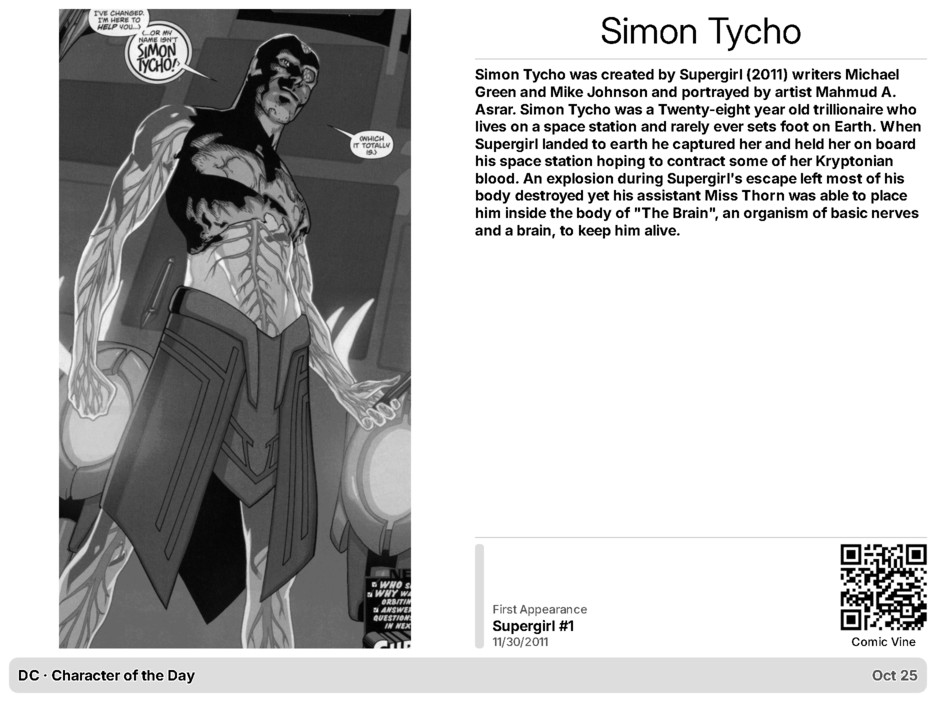
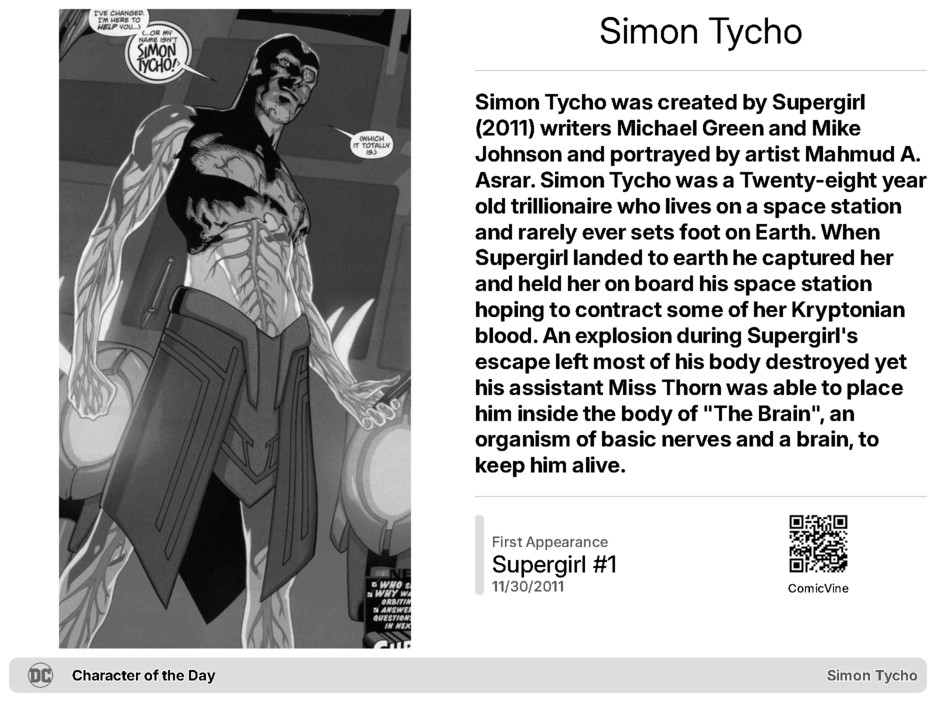
Mirror current Marvel markup with DC branding

diff --git a/templates/trmnlFullLayout.html b/templates/trmnlFullLayout.html
@@ -1,23 +1,41 @@
-<div class="layout layout--stretch gap--medium dc-card">
-{% if dc_has_character %}
-<div class="grid grid--cols-2 portrait:grid--cols-1 gap--medium h--full w--full">
-  <div class="col col--center h--full dc-portrait">{% if ImageURL != blank %}<img class="image image-dither image--contain" alt="{{ Name | escape }}" src="{{ ImageURL | escape }}">{% else %}<span class="label">Portrait unavailable</span>{% endif %}</div>
-  <div class="col col--start gap--small h--full dc-details">
-    <span class="title title--large lg:title--xxlarge text--center w--full" data-clamp="2">{{ Name | escape }}</span>
-    <div class="divider w--full"></div>
-    {% if dc_stale %}<span class="label label--inverted">Last known character · update delayed</span>{% endif %}
-    <div class="dc-body w--full"><span class="description lg:description--large" data-clamp="11" data-clamp-lg="16">{{ Description | default: 'Biography unavailable.' | escape }}</span></div>
-    <div class="divider w--full"></div>
-    <div class="row row--center gap--small w--full"><div class="item w--full"><div class="meta"></div><div class="content">
-<span class="label label--small">First Appearance</span>
-<span class="description lg:description--large w--full" data-clamp="2">{{ FirstComicTitle | default: 'Not available' | escape }}</span>
-{% if FirstAppearance != blank %}<span class="label label--small">{{ FirstAppearance | escape }}</span>{% endif %}
-</div></div><div class="flex flex--col flex--center-x gap--xsmall dc-qr-wrap">{% if CharacterURL != blank %}<img class="image image--contain w--16 h--16 lg:w--24 lg:h--24 dc-qr" alt="Comic Vine character page QR code" src="{{ dc_qr_url | escape }}">{% endif %}<span class="label label--small">Comic Vine</span></div></div>
-  </div>
-</div>
-{% else %}<div class="col col--center gap--small">{{ dc_state }}</div>{% endif %}
-</div>
-<div class="title_bar">
-  <span class="title"><span class="dc-brand">DC</span> · Character of the Day</span>
-  <span class="instance">{% if dc_stale %}Update delayed · {% endif %}{% if UpdatedAt != blank %}{{ UpdatedAt | date: '%b %d' | escape }}{% else %}{{ Name | default: 'Waiting for data' | escape }}{% endif %}</span>
-</div>
+ <div class="layout layout--stretch gap--medium">
+   <div class="grid grid--cols-6 gap--medium h--full">
+     <div class="col col--span-3 h--full">
+       <img class="image image-dither image--contain w--full h--full" alt="{{ Name }}" src="{{ ImageURL }}">
+     </div>
+ 
+     <div class="col col--span-3 flex flex--col gap--large h--full">
+       <span class="title title--xlarge lg:title--xxlarge text--center w--full" data-value-fit="true" data-pixel-perfect="true">
+         {{ Name }}
+       </span>
+ 
+       <span class="divider w--full"></span>
+ 
+       <div class="flex flex--col  flex--grow  ">
+         <span class="description description--large lg:description--xxlarge" data-clamp-md="11" data-clamp-lg="19">{{ Description }}</span>
+       </div>
+
+       <div class="divider w--full"></div>
+       <div class="flex flex--row  gap--large w--full ">
+         <div class="item flex--grow w--full h--full">
+           <div class="meta"></div>
+           <div class="content">
+             <span class="label">First Appearance</span>
+             <span class="value value--xsmall lg:value--small" data-value-fit="true">{{ FirstComicTitle }}</span>
+             <span class="label">{{ FirstAppearance }}</span>
+           </div>
+         </div> 
+         <div class="flex flex--col  w--full flex--grow">
+           <img class="image image--contain w--16 h--16 lg:w--30 lg:h--30" alt="ComicVine" src="https://raw.githubusercontent.com/MarkHopper24/DC-Character-of-the-Day/refs/heads/main/characterQR.jpg">
+           <span class="label label--small ">ComicVine</span>
+         </div>
+       </div>
+     </div>
+   </div>
+ </div>
+ 
+ <div class="title_bar">
+   <img class="image" alt="DC" src="https://logos-world.net/wp-content/uploads/2020/08/DC-Comics-Logo.png">
+   <span class="title">Character of the Day</span>
+   <span class="instance">{{ Name }}</span>
+ </div>

diff --git a/templates/trmnlHalfHorizontal.html b/templates/trmnlHalfHorizontal.html
@@ -1,21 +1,35 @@
-<div class="layout layout--stretch gap--small dc-card">
-{% if dc_has_character %}
-<div class="grid grid--cols-6 gap--small h--full w--full">
-  <div class="col col--center col--span-2 h--full dc-portrait">{% if ImageURL != blank %}<img class="image image-dither image--contain" alt="{{ Name | escape }}" src="{{ ImageURL | escape }}">{% else %}<span class="label">Portrait unavailable</span>{% endif %}</div>
-  <div class="col col--start col--span-4 gap--xsmall h--full dc-details">
-    <span class="title title--medium lg:title--xlarge text--center w--full" data-clamp="1">{{ Name | escape }}</span>
-    <div class="divider w--full"></div>
-    <div class="dc-body w--full"><span class="description" data-clamp="3">{{ Description | escape }}</span></div>
-    <div class="row row--center gap--small w--full"><div class="item w--full"><div class="meta"></div><div class="content">
-<span class="label label--small">First Appearance</span>
-<span class="description lg:description--large w--full" data-clamp="2">{{ FirstComicTitle | default: 'Not available' | escape }}</span>
-{% if FirstAppearance != blank %}<span class="label label--small">{{ FirstAppearance | escape }}</span>{% endif %}
-</div></div>{% if CharacterURL != blank %}<img class="image image--contain w--16 h--16 lg:w--24 lg:h--24 dc-qr" alt="Comic Vine character page QR code" src="{{ dc_qr_url | escape }}">{% endif %}</div>
+<div class="layout layout--stretch gap--small">
+  <div class="grid grid--cols-6 gap--small h--full w--full">
+    <div class="col col--center col--span-2 h--full">
+      <img class="image image-dither image--contain w--full h--full" alt="{{ Name }}" src="{{ ImageURL }}">
+    </div>
+
+    <div class="col col--span-4 flex--col gap--xsmall h--full">
+      <span class="title title--medium lg:title--xxlarge text--center w--full" data-clamp="1">
+        {{ Name }}
+      </span>
+      <div class="divider w--full"></div>
+      <span class="description lg:description " data-clamp="3" data-clamp-lg="3">
+        {{ Description }}
+      </span>
+      <div class="stretch-y"></div>
+            <img class="image image--contain w--16 h--16 md:w--16 md:h--16 lg:w--28 lg:h--28" alt="ComicVine Wiki" src="https://raw.githubusercontent.com/MarkHopper24/DC-Character-of-the-Day/refs/heads/main/characterQR.jpg">
+      <span class="label label--small text--center" data-clamp="2">ComicVine Wiki</span>
+      <div class="item w--full">
+        <div class="meta"></div>
+        <div class="content">
+          <span class="label label--small">First Appearance</span>
+          <span class="value value--xsmall" data-value-fit="true">{{ FirstComicTitle }}</span>
+          <span class="label label--small">{{ FirstAppearance }}</span>
+        </div>
+      </div>
+    </div>
   </div>
 </div>
-{% else %}<div class="col col--center gap--small">{{ dc_state }}</div>{% endif %}
-</div>
+
 <div class="title_bar">
-  <span class="title"><span class="dc-brand">DC</span> · Character of the Day</span>
-  <span class="instance">{% if dc_stale %}Update delayed · {% endif %}{% if UpdatedAt != blank %}{{ UpdatedAt | date: '%b %d' | escape }}{% else %}{{ Name | default: 'Waiting for data' | escape }}{% endif %}</span>
+  <img class="image" alt="DC"
+       src="https://logos-world.net/wp-content/uploads/2020/08/DC-Comics-Logo.png">
+  <span class="title">Character of the Day</span>
+  <span class="instance">{{ Name }}</span>
 </div>

diff --git a/templates/trmnlHalfVertical.html b/templates/trmnlHalfVertical.html
@@ -1,16 +1,33 @@
-<div class="layout layout--col layout--top gap--small dc-card">
-{% if dc_has_character %}
-  <span class="title title--large lg:title--xxlarge text--center w--full" data-clamp="2">{{ Name | escape }}</span>
-  <div class="col col--center w--full dc-portrait">{% if ImageURL != blank %}<img class="image image-dither image--contain" alt="{{ Name | escape }}" src="{{ ImageURL | escape }}">{% else %}<span class="label">Portrait unavailable</span>{% endif %}</div>
-  <span class="description" data-clamp="3" data-clamp-lg="5">{{ Description | escape }}</span>
-  <div class="row row--center gap--small w--full"><div class="item w--full"><div class="meta"></div><div class="content">
-<span class="label label--small">First Appearance</span>
-<span class="description lg:description--large w--full" data-clamp="2">{{ FirstComicTitle | default: 'Not available' | escape }}</span>
-{% if FirstAppearance != blank %}<span class="label label--small">{{ FirstAppearance | escape }}</span>{% endif %}
-</div></div><div class="flex flex--col flex--center-x dc-qr-wrap">{% if CharacterURL != blank %}<img class="image image--contain w--16 h--16 lg:w--24 lg:h--24 dc-qr" alt="Comic Vine character page QR code" src="{{ dc_qr_url | escape }}">{% endif %}</div></div>
-{% else %}<div class="col col--center gap--small">{{ dc_state }}</div>{% endif %}
+<div class="layout layout--col layout--stretch gap--xsmall">
+  <div class="row row--center h--[3cqh] w--full ">
+    <img class="image image-dither image--contain w--full h--full" alt="{{ Name }}" src="{{ ImageURL }}">
+  </div>
+  <div class="flex flex--col gap--large stretch">
+    <span class="title title--medium lg:title--xxlarge text--center w--full" data-clamp="2">
+      {{ Name }}
+    </span>
+    <span class="label lg:label--medium text--" data-clamp="2" data-clamp-lg="4">
+      {{ Description }}
+    </span>
+    <div class="item w--full">
+      <div class="meta"></div>
+      <div class="content">
+        <span class="label label--small">First Appearance</span>
+        <span class="value value--xsmall" data-value-fit="true">{{ FirstComicTitle }}</span>
+        <span class="label label--small">{{ FirstAppearance }}</span>
+      </div>
+    </div>
+    <div class="stretch-y"></div>
+    <div class="flex flex--col flex--center-x gap--xsmall">
+      <img class="image image--contain w--12 h--12 md:w--12 md:h--12 lg:w--24 lg:h--24" alt="ComicVine Wiki" src="https://raw.githubusercontent.com/MarkHopper24/DC-Character-of-the-Day/refs/heads/main/characterQR.jpg">
+      <span class="label label--small" data-clamp="2">ComicVine Wiki</span>
+    </div>
+  </div>
 </div>
+
 <div class="title_bar">
-  <span class="title"><span class="dc-brand">DC</span> · Character of the Day</span>
-  <span class="instance">{% if dc_stale %}Update delayed · {% endif %}{% if UpdatedAt != blank %}{{ UpdatedAt | date: '%b %d' | escape }}{% else %}{{ Name | default: 'Waiting for data' | escape }}{% endif %}</span>
+  <img class="image" alt="DC"
+       src="https://logos-world.net/wp-content/uploads/2020/08/DC-Comics-Logo.png">
+  <span class="title">Character of the Day</span>
+  <span class="instance">{{ Name }}</span>
 </div>

diff --git a/templates/trmnlQuadrant.html b/templates/trmnlQuadrant.html
@@ -1,17 +1,26 @@
-<div class="layout layout--col layout--top gap--xsmall dc-card">
-{% if dc_has_character %}
-  <span class="title title--medium lg:title--xlarge text--center w--full" data-clamp="2">{{ Name | escape }}</span>
+<div class="layout layout--col layout--stretch gap--xsmall">
+  <span class="title title--large lg:title--xlarge text--center w--full" data-clamp="2">
+    {{ Name }}
+  </span>
   <div class="divider w--full"></div>
-  <div class="item w--full"><div class="meta"></div><div class="content">
-<span class="label label--small">First Appearance</span>
-<span class="description lg:description--large w--full" data-clamp="1">{{ FirstComicTitle | default: 'Not available' | escape }}</span>
-{% if FirstAppearance != blank %}<span class="label label--small">{{ FirstAppearance | escape }}</span>{% endif %}
-</div></div>
+  <div class="item w--full">
+    <div class="meta"></div>
+    <div class="content">
+      <span class="label label--small">First Appearance</span>
+      <span class="value value--xsmall" data-value-fit="true">{{ FirstComicTitle }}</span>
+      <span class="label label--small">{{ FirstAppearance }}</span>
+    </div>
+  </div>
   <div class="stretch-y"></div>
-  <div class="flex flex--col flex--center-x gap--xsmall dc-qr-wrap">{% if CharacterURL != blank %}<img class="image image--contain w--12 h--12 lg:w--20 lg:h--20 dc-qr" alt="Comic Vine character page QR code" src="{{ dc_qr_url | escape }}">{% endif %}<span class="label label--small">Comic Vine</span></div>
-{% else %}<div class="col col--center gap--small">{{ dc_state }}</div>{% endif %}
+  <div class="flex flex--col flex--center-x gap--xsmall no-shrink">
+    <img class="image image--contain w--10 h--10 md:w--10 md:h--10 lg:w--20 lg:h--20" alt="ComicVine Wiki" src="https://raw.githubusercontent.com/MarkHopper24/DC-Character-of-the-Day/refs/heads/main/characterQR.jpg">
+    <span class="label label--small" data-clamp="2">ComicVine Wiki</span>
+  </div>
 </div>
+
 <div class="title_bar">
-  <span class="title"><span class="dc-brand">DC</span> · Character of the Day</span>
-  <span class="instance">{% if dc_stale %}Update delayed · {% endif %}{% if UpdatedAt != blank %}{{ UpdatedAt | date: '%b %d' | escape }}{% else %}{{ Name | default: 'Waiting for data' | escape }}{% endif %}</span>
+  <img class="image" alt="DC"
+       src="https://logos-world.net/wp-content/uploads/2020/08/DC-Comics-Logo.png">
+  <span class="title">Character of the Day</span>
+  <span class="instance">{{ Name }}</span>
 </div>

diff --git a/README.md b/README.md
@@ -45,6 +45,6 @@ Add your Comic Vine API key as the repository Actions secret [COMICVINEAPIKEY](h
 
 The updater uses Comic Vine publisher ID 10 (DC Comics), keeps the same character JSON fields as the Marvel companion, and adds UpdatedAt and Status for display freshness. character.jpg is the portrait; characterQR.jpg is the Comic Vine character-page QR code. A failed fetch leaves the previously published character unchanged.
 
-The four layout templates use TRMNL Framework 3.4. Copy templates/shared.liquid to Shared and the matching HTML templates to Full, Half Horizontal, Half Vertical, and Quadrant. templates/settings.yml contains the polling settings.
+The four layout templates mirror the current Marvel plugin markup and use the same TRMNL Framework 3.0.5 version. Clear Shared (templates/shared.liquid is intentionally empty) and copy the matching HTML templates to Full, Half Horizontal, Half Vertical, and Quadrant. templates/settings.yml contains the polling settings.
 
 Companion project: [Marvel Character of the Day](https://github.com/MarkHopper24/Marvel-Character-of-the-Day).
